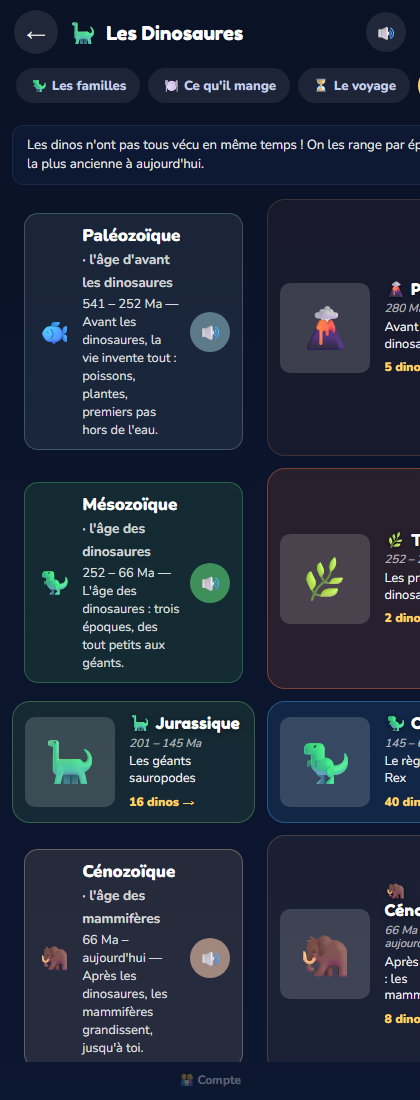
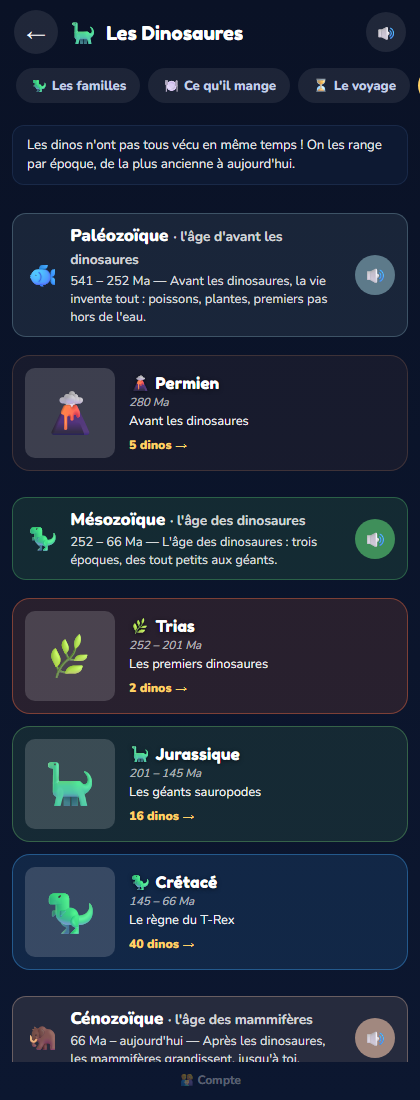
fix(dino): onglet Époques en pleine largeur (la grille 2 colonnes débordait), bandeaux d'ère alignés ; pad tête en 2 passes si le ré-encodage mange le silence

diff --git a/site/dev-dinos.html b/site/dev-dinos.html
@@ -540,8 +540,9 @@ body { background:linear-gradient(180deg, var(--bg0), var(--bg1)); }
 ::-webkit-scrollbar-track { background:transparent; }
 ::-webkit-scrollbar-thumb { background:rgba(255,255,255,0.2); border-radius:2px; }
 /* Bandeau d'ère (Voyage + Époques, 2026-09-05) */
-.ere-bandeau { display:flex; align-items:center; gap:10px; margin:14px 12px 6px; padding:10px 12px; border-radius:14px;
+.ere-bandeau { grid-column:1 / -1; min-width:0; display:flex; align-items:center; gap:10px; margin:14px 0 6px; padding:10px 12px; border-radius:14px;
   background:color-mix(in srgb, var(--ere) 18%, transparent); border:1px solid color-mix(in srgb, var(--ere) 55%, transparent); }
+#chrono-scroll .ere-bandeau { margin-left:12px; margin-right:12px; }
 .ere-emoji { font-size:1.6rem; line-height:1; }
 .ere-info { flex:1; min-width:0; }
 .ere-label { font-weight:900; font-size:1.05rem; }
@@ -753,6 +754,7 @@ function buildMenu() {
   } else if (currentMode === 'periode') {
     buildMenuPeriode(el);
   } else if (currentMode === 'epoque') {
+    el.classList.add('mode-famille'); // 2026-09-05 : même gabarit pleine largeur que Familles (la grille 2 colonnes débordait à 420 px)
     buildMenuEpoque(el);
   } else if (currentMode === 'dico') {
     el.classList.add('mode-dico');
